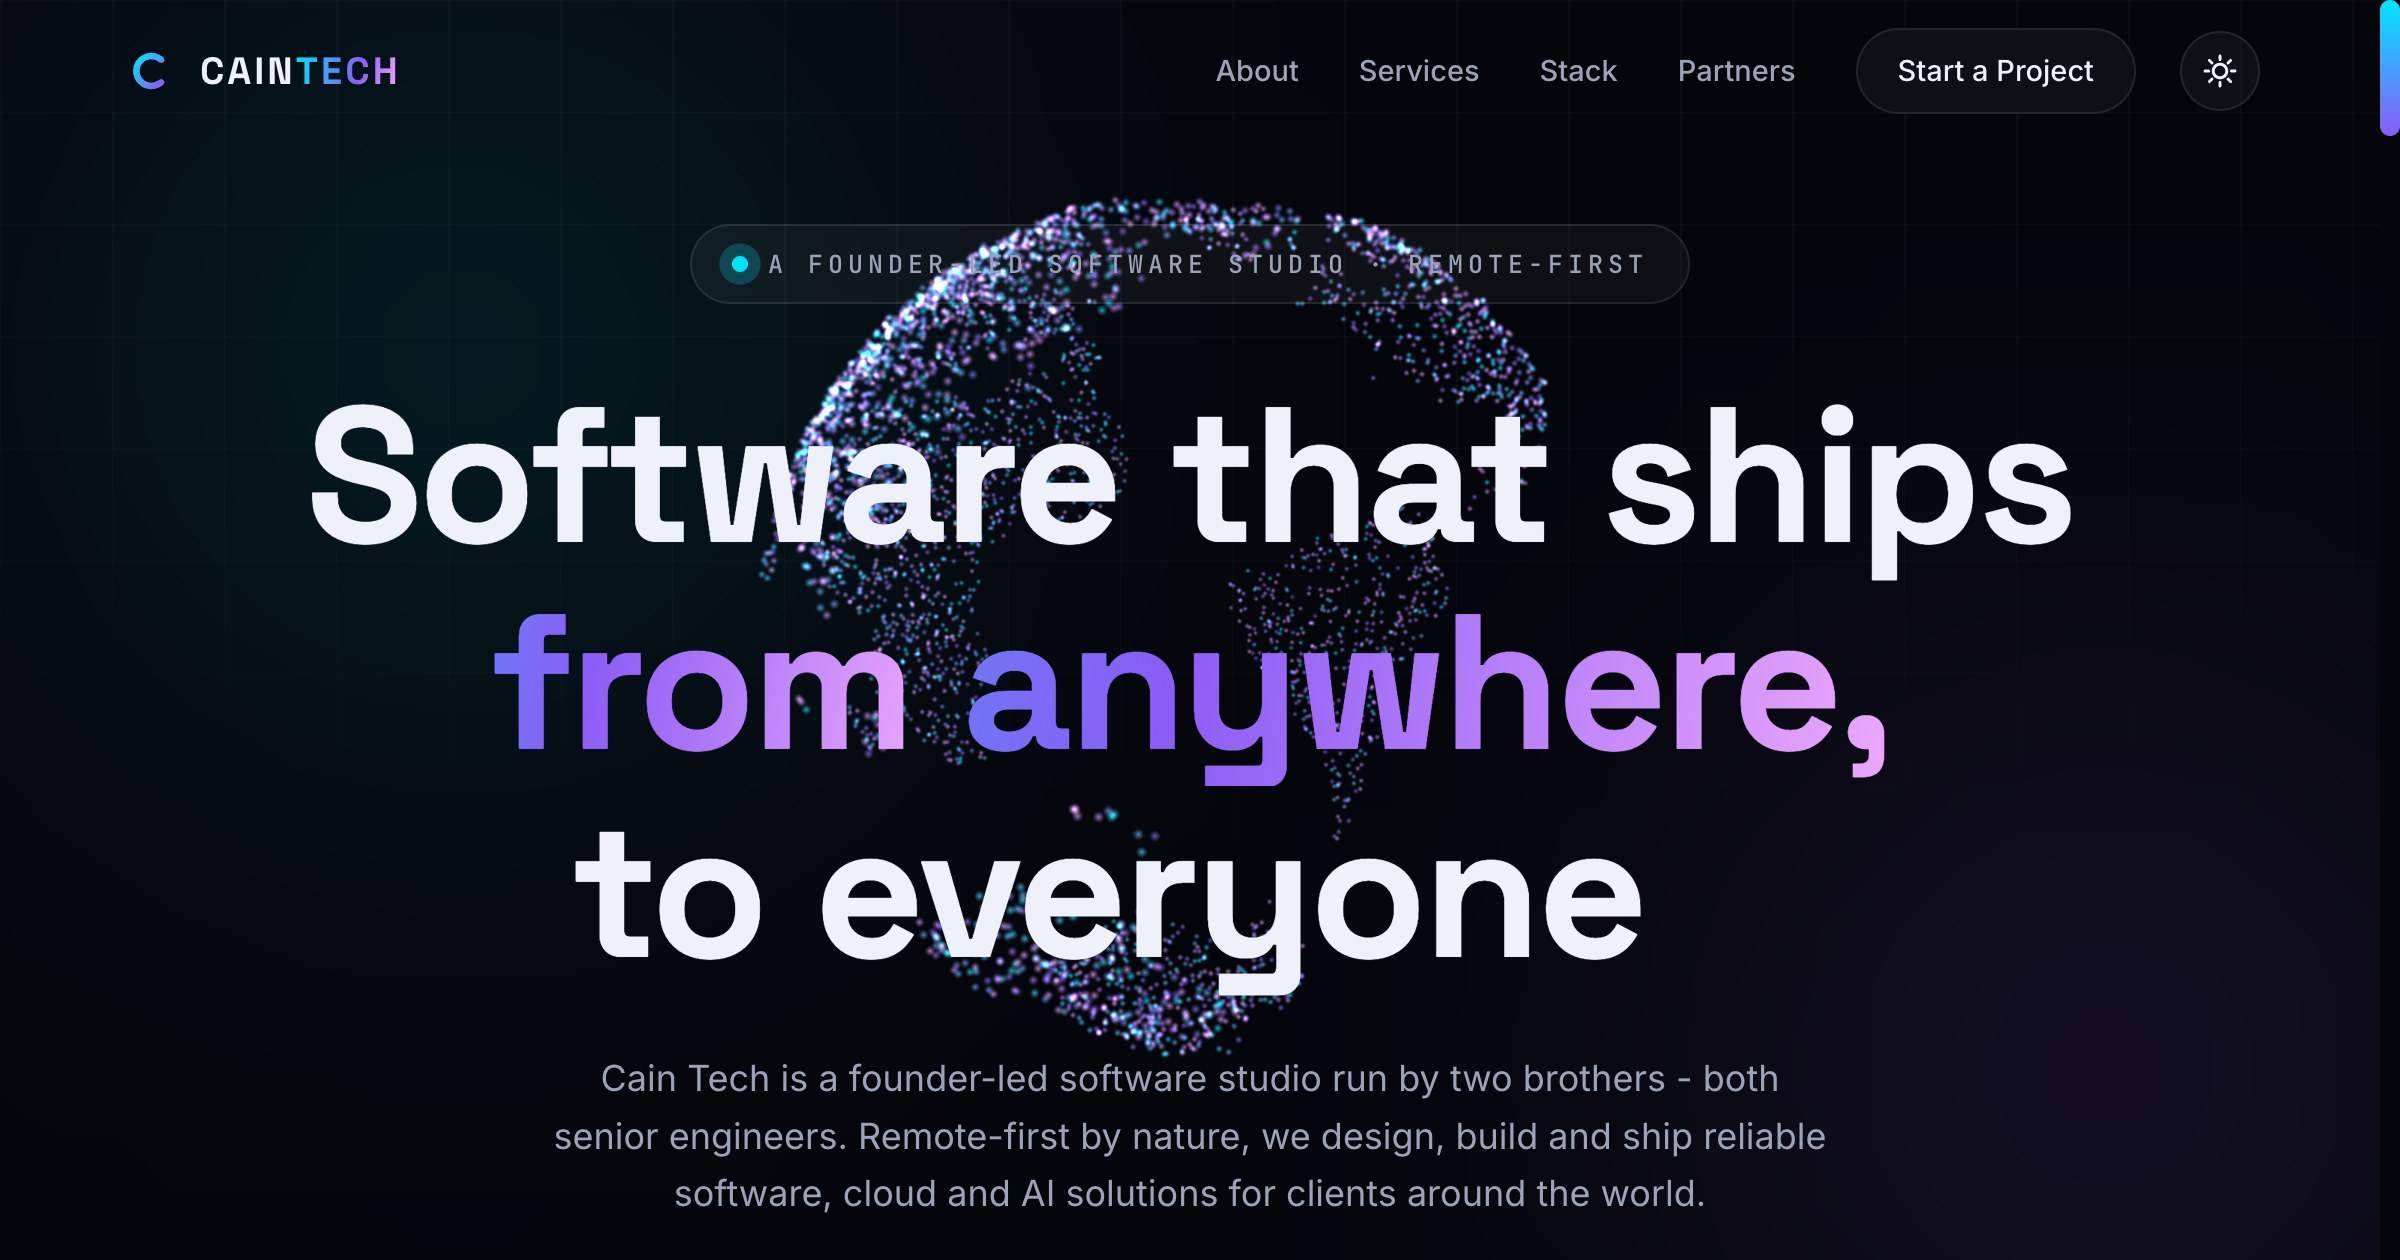
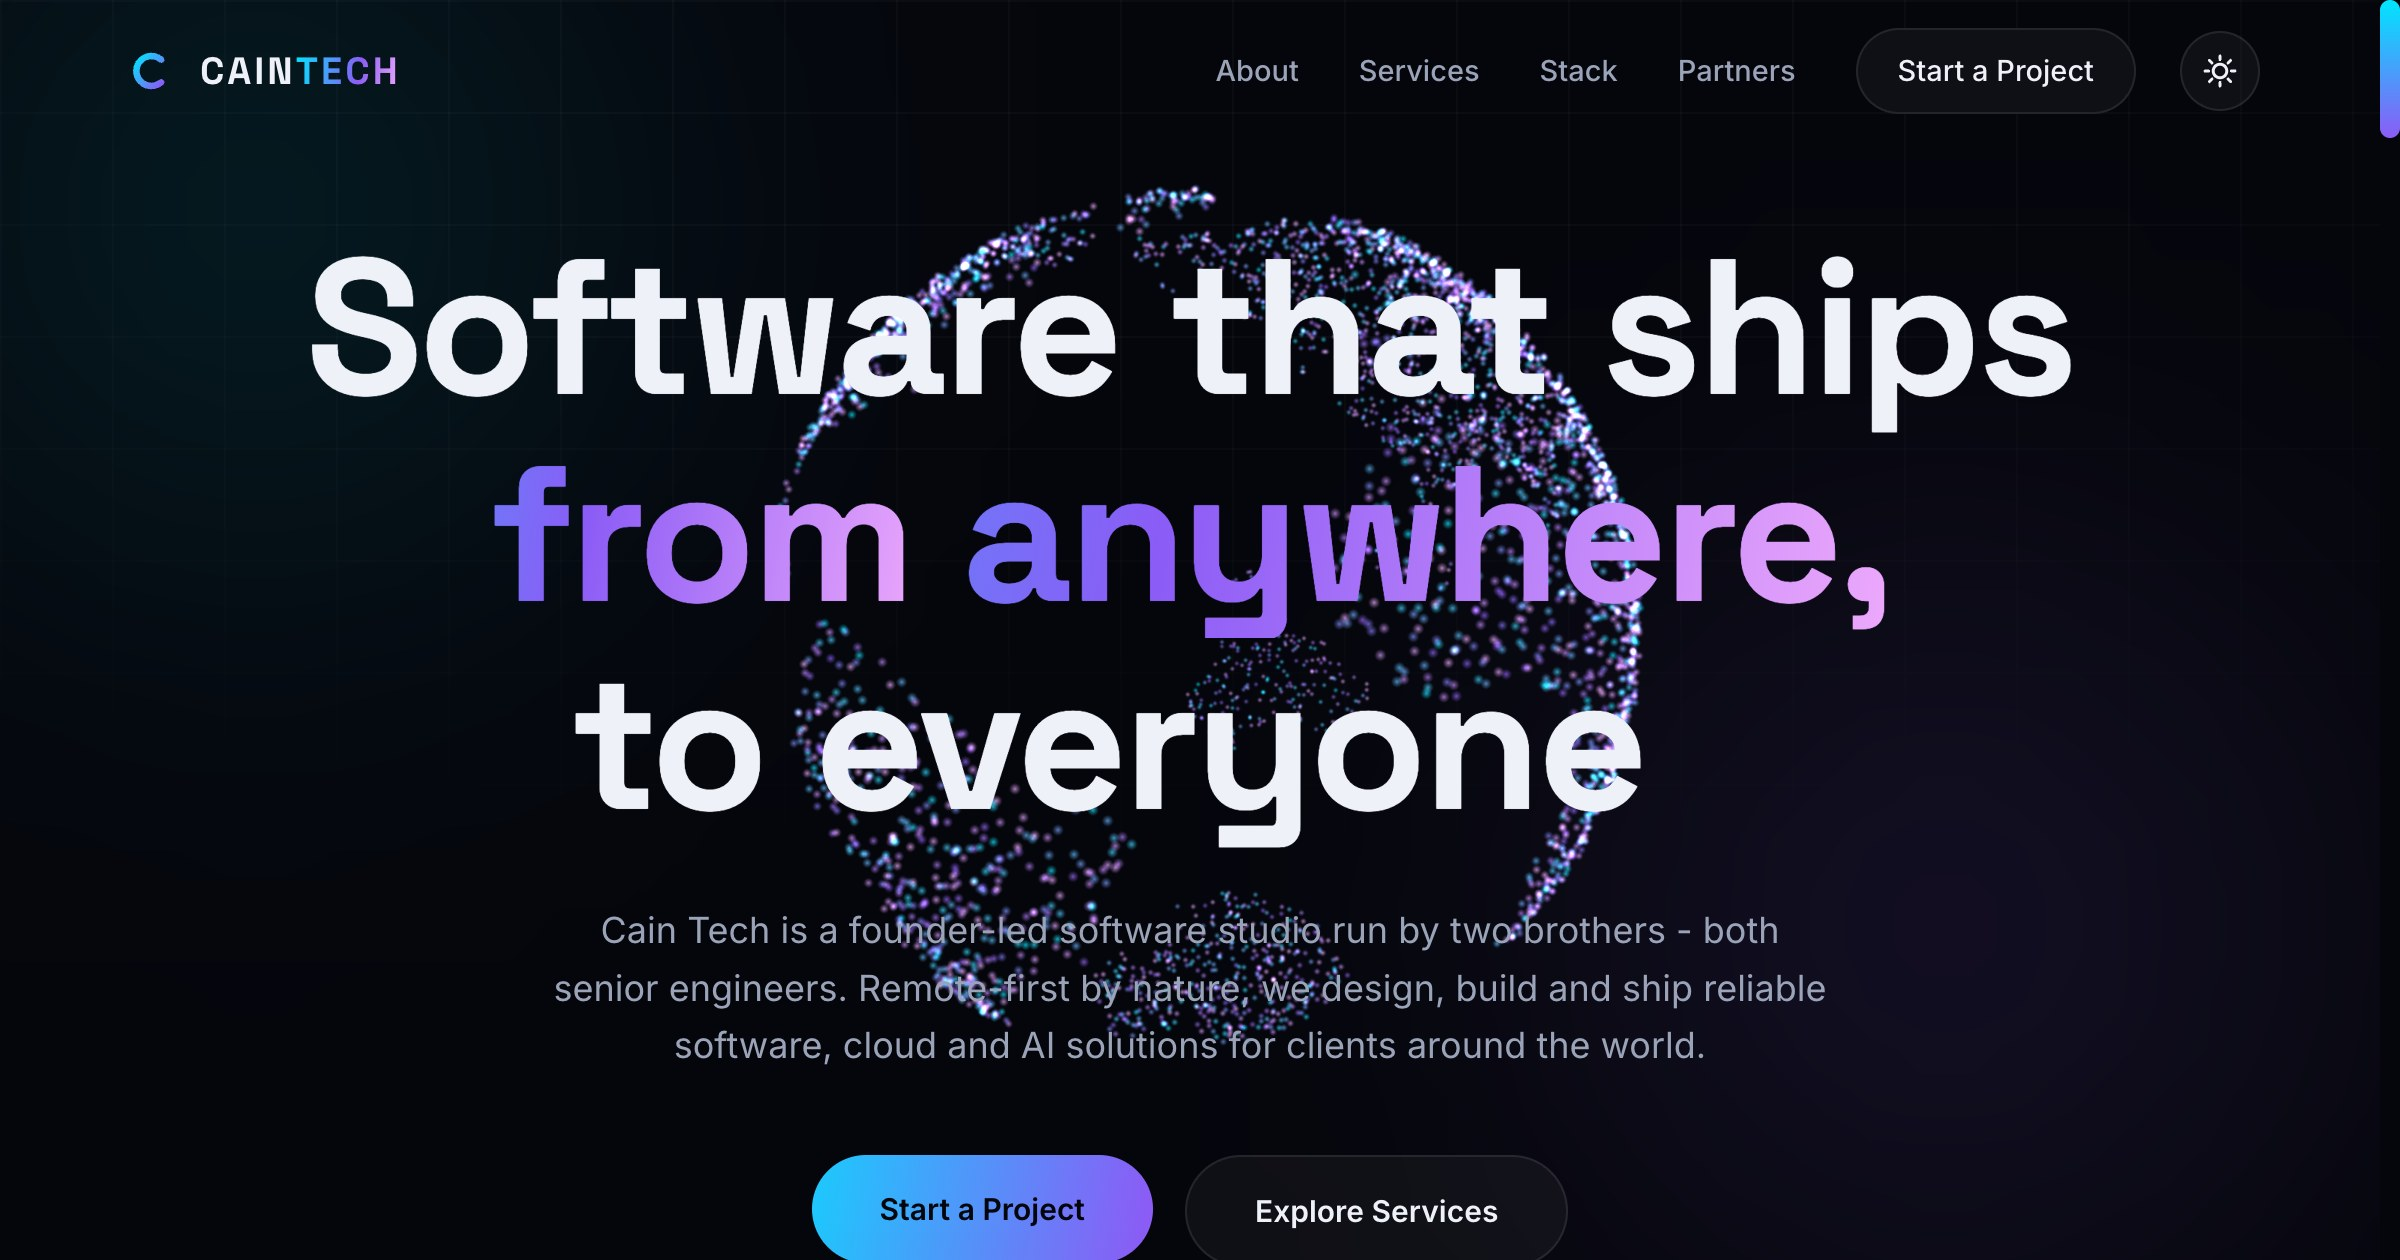
Remove hero eyebrow strip; fix mobile canvas resize glitch
- Drop the "A FOUNDER-LED SOFTWARE STUDIO · REMOTE-FIRST" eyebrow
- MorphField: listen to visualViewport resize and self-heal any
  viewport size change in the render loop, so the particle canvas no
  longer renders zoomed/stretched on mobile until the first scroll
- Refresh the social preview image to match the new hero

Changed region(s): [[0.125, 0.1238, 0.875, 0.8667], [0.2188, 0.8976, 0.75, 1.0]]

diff --git a/src/components/Hero.jsx b/src/components/Hero.jsx
@@ -1,6 +1,6 @@
 import { useEffect, useRef, useState } from "react";
 import { motion, useMotionValue, useScroll, useSpring, useTransform } from "framer-motion";
-import { Magnetic, ScrambleText, EASE } from "./ui.jsx";
+import { Magnetic, EASE } from "./ui.jsx";
 
 const TERMINAL_LINES = [
   "$ cain-tech init --remote",
@@ -98,16 +98,7 @@ export default function Hero() {
         my.set(e.clientY / innerHeight - 0.5);
       }}
     >
-      <motion.div className="hero-inner" style={{ opacity: fade, y: drift, scale }}>
-        <motion.p
-          className="hero-eyebrow"
-          initial={{ opacity: 0, y: 24 }}
-          animate={{ opacity: 1, y: 0, transition: { delay: 1.45, duration: 0.7, ease: EASE } }}
-        >
-          <span className="pulse-dot" />
-          <ScrambleText text="A FOUNDER-LED SOFTWARE STUDIO · REMOTE-FIRST" />
-        </motion.p>
-
+      <motion.div className="hero-inner pt-12" style={{ opacity: fade, y: drift, scale }}>
         <motion.h1
           className="hero-title"
           variants={wordsVariants}

diff --git a/src/components/MorphField.jsx b/src/components/MorphField.jsx
@@ -1114,17 +1114,26 @@ export default function MorphField() {
 
     addEventListener("mousemove", onMouse, { passive: true });
     addEventListener("resize", onResize);
+    // mobile browsers change the visual viewport (and innerHeight) when the
+    // address bar shows/hides — listen for that so the canvas never renders
+    // stretched/"zoomed" until the first scroll
+    visualViewport?.addEventListener("resize", onResize);
     onResize();
 
     let raf;
     const pos = geo.attributes.position.array;
     let lastT = performance.now();
+    let lastW = innerWidth, lastH = innerHeight;
     let yBase = null; // fixed rotation base while inside the sport zone
 
     const frame = () => {
       const now = performance.now();
       const dt = Math.min((now - lastT) / 1000, 0.05);
       lastT = now;
+      // self-heal any viewport change the resize events missed (mobile)
+      if (innerWidth !== lastW || innerHeight !== lastH) {
+        lastW = innerWidth; lastH = innerHeight; onResize();
+      }
       // scroll progress drives which shape the cloud is morphing toward
       const max = document.documentElement.scrollHeight - innerHeight;
       const progress = max > 0 ? Math.min(window.scrollY / max, 1) : 0;
@@ -1189,6 +1198,7 @@ export default function MorphField() {
       cancelAnimationFrame(raf);
       removeEventListener("mousemove", onMouse);
       removeEventListener("resize", onResize);
+      visualViewport?.removeEventListener("resize", onResize);
       removeEventListener("themechange", onThemeChange);
       geo.dispose();
       mat.dispose();